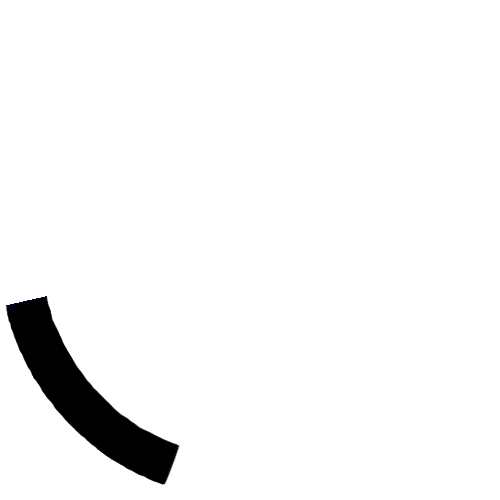
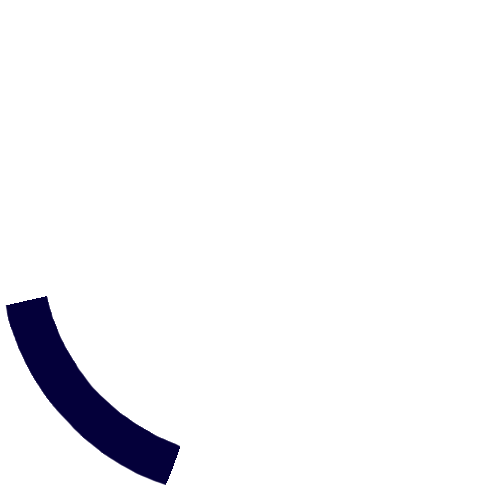
yes

Changed region(s): [[0.0, 0.6, 0.36, 0.99]]

diff --git a/screensaver/main.css b/screensaver/main.css
@@ -55,7 +55,7 @@ body{
 }
 
 .circle2{
-    background-color: white;
+    background-color: black;
     border-radius: 50%;
     width: 37.5vw;
     padding-top: 37.5%;
